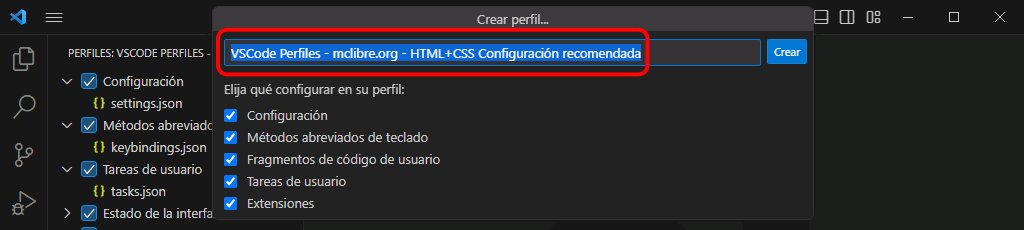
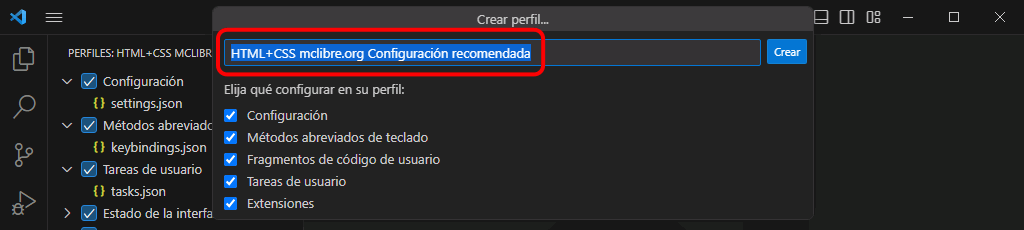
VSCode Perfil: añado apartado área de trabajo

Changed region(s): [[0.0938, 0.0913, 0.6562, 0.3348]]

diff --git a/otros/vsc-htmlcss-perfil.html b/otros/vsc-htmlcss-perfil.html
@@ -24,6 +24,7 @@
 
       <ul>
         <li><a href="#perfil">Importar perfil</a></li>
+        <li><a href="#area-trabajo">Área de trabajo</a></li>
       </ul>
     </div>
   </nav>
@@ -74,12 +75,12 @@
           <img src="../img/vscode/vsc-perfil-importar-5.png" alt="VSC. Importar perfil recomendado" width="1024" height="230">
         </p>
       </li>
-      <li>Se recomienda cambiar ese nombre por un nombre más corto y que empiece de forma distinta al resto de perfiles. En este caso, el nombre podría comenzar por "HTML+CSS", por ejemplo. para terminar, haga clic en el botón "Crear".
+      <li>Ese nombre se puede cambiar, por ejemplo, por un nombre más corto. Es aconsejable que el nombre de cada perfil empiece de forma distinta (el motivo se explica en la captura siguiente). Para terminar, haga clic en el botón "Crear".
         <p class="mcl-captura">
           <img src="../img/vscode/vsc-perfil-importar-6.png" alt="VSC. Importar perfil recomendado" width="1024" height="230">
         </p>
       </li>
-      <li>Una vez creado el perfil, Visual Studio se reiniciará cargando el perfil. El nombre del perfil activo se muestra en la parte superior de la ventana. El icono de la rueda dentada muestra también un par de caracteres que correponden al principio del nombre del perfil.
+      <li>Una vez creado el perfil, Visual Studio se reiniciará cargando el perfil. El nombre del perfil activo se muestra en la parte superior de la ventana. El icono de la rueda dentada muestra también un par de caracteres que correponden al principio del nombre del perfil. Si los nombres de perfiles empiezan de forma distinta, de un vistazo se puede identificar el perfil que se está utilizando.
         <p class="mcl-captura">
           <img src="../img/vscode/vsc-perfil-importar-7.png" alt="VSC. Importar perfil recomendado" width="1024" height="576">
         </p>
@@ -94,8 +95,53 @@
     <p>Una vez creado y seleccionado el perfil en Visual Studio Code, no se requieren ajustes adicionales.</p>
   </section>
 
+  <section id="area-trabajo">
+    <h2>Área de trabajo</h2>
+
+    <p>Este es el área de trabajo recomendada para seguir el curso <a href="https://www.mclibre.org/consultar/htmlcss/">Páginas web HTML y hojas de estilo CSS</a> de <a href="https://www.mclibre.org/">mclibre.org</a>.</p>
+
+    <ol>
+      <li>Cree la carpeta <strong>Documentos &gt; LMSGI &gt; HTMLCSS</strong> (el nombre de esta carpeta puede contener mayúsculas):
+
+        <p class="mcl-captura">
+          <img src="../img/vscode/vsc-htmlcss-area-trabajo-1.png" alt="VSC. Área de trabajo" width="1024" height="180">
+        </p>
+      </li>
+
+      <li>Cree las carpetas <strong>Documentos &gt; LMSGI &gt; HTMLCSS &gt; ejercicios</strong> y <strong>Documentos &gt; LMSGI &gt; HTMLCSS &gt; pruebas</strong> (se recomienda que los nombres de estas carpetas no contengan mayúsculas):
+        <p class="mcl-captura">
+          <img src="../img/vscode/vsc-htmlcss-area-trabajo-2.png" alt="VSC. Área de trabajo" width="1024" height="200">
+        </p>
+      </li>
+
+      <li>Elija la opción de menú <span class="soft-menu">Archivo &gt; Abrir carpeta ...</span>:
+        <p class="mcl-captura">
+          <img src="../img/vscode/vsc-htmlcss-area-trabajo-3.png" alt="VSC. Área de trabajo" width="1024" height="220">
+        </p>
+      </li>
+
+      <li>Elija la carpeta <strong>Documentos &gt; LMSGI &gt; HTMLCSS</strong>:
+        <p class="mcl-captura">
+          <img src="../img/vscode/vsc-htmlcss-area-trabajo-4.png" alt="VSC. Área de trabajo" width="1024" height="380">
+        </p>
+      </li>
+
+      <li>Desde la versión 1.57 (mayo 2021) Visual Studio Code incluye un administrador de confianza (<a href="https://code.visualstudio.com/docs/editor/workspace-trust">Workspace Trust</a>). Visual Studio Code sólo ejecutará archivos cuando se haya indicado que se confía en ellos. La primera vez que se abre una carpeta, Visual Studio Code pregunta si se confía en el contenido de esa carpeta. Haga clic en "Sí, confío en los autores":
+        <p class="mcl-captura">
+          <img src="../img/vscode/vsc-htmlcss-area-trabajo-5.png" alt="VSC. Área de trabajo" width="1024" height="576">
+        </p>
+      </li>
+
+      <li>Haga clic en el icono Explorador en la barra de actividades para ver el contenido de la carpeta elegida. El nombre de la carpeta se mostrará en la parte superior derecha de la barra de actividades:
+        <p class="mcl-captura">
+          <img src="../img/vscode/vsc-htmlcss-area-trabajo-6.png" alt="VSC. Área de trabajo" width="1024" height="170">
+        </p>
+      </li>
+    </ol>
+  </section>
+
   <footer>
-    <p class="ultmod">Última modificación de esta página: 19 de septiembre de 2023</p>
+    <p class="ultmod">Última modificación de esta página: 20 de septiembre de 2023</p>
 
     <p class="licencia">
       <a rel="license" href="https://creativecommons.org/licenses/by-sa/4.0/deed.es_ES"><img src="../varios/iconos/icono-cc-by-sa.svg" alt="Licencia Creative Commons" title="Licencia Creative Commons BY-SA" width="120" height="42"></a><br>

diff --git a/otros/vsc-htmlcss-configuracion.html b/otros/vsc-htmlcss-configuracion.html
@@ -45,10 +45,10 @@
 
     <p>El tema de color es un aspecto muy personal por lo que se deja a elección del alumno el tema de color empleado.</p>
 
-    <p>En las capturas de los apuntes se empleará el Tema predeterminado Dark+ (Default dark, Oscuro+).</p>
+    <p>En las capturas de los apuntes se empleará el Tema Dark Modern (Moderno oscuro).</p>
 
-    <p class="mcl-captura">
-      <img src="../img/vscode/vsc-tema-dark.png" alt="VSC. Tema Dark+ predeterminado" width="1024" height="576">
+    <p class="captura">
+      <img src="../img/vscode/vsc-tema-dark-modern.png" alt="VSC. Tema Dark Modern" width="1024" height="576">
     </p>
   </section>
 
